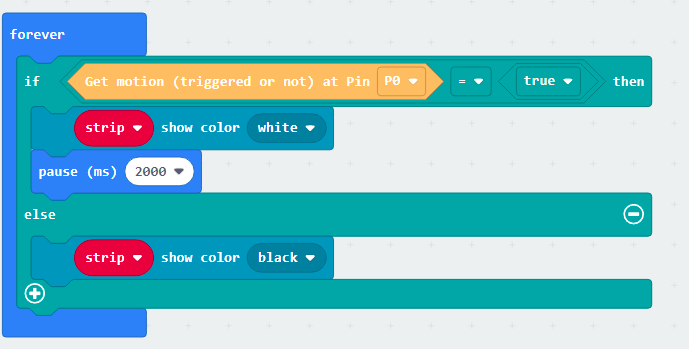
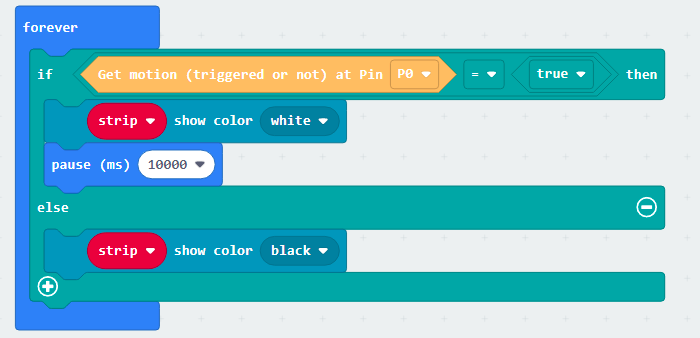
update

Changed region(s): [[0.0, 0.0, 0.9753, 1.0]]

diff --git a/docs/smartHomeIoT/case07.md b/docs/smartHomeIoT/case07.md
@@ -1,34 +1,53 @@
-# Case 07: Relaxing Enjoyable Musical Living Room
+# Case 07: Smart Remote Control Musical Light
 
 Level: ![level](images/level2.png)
-![auto_fit](images/Case7/blank.png)<P>
+![auto_fit](images/Case7/intro.png)<P>
 
 ## Goal
 <HR>
 
-Create a group of micro:bit and remote to play music and change light color.<BR><P>
+Create a remote control to control the living room's musical light<BR><P>
 
 ## Background
 <HR>
 
-<span id="subtitle">What is the Relaxing Enjoyable Musical Living Room?</span><P>
-Relaxing Enjoyable Musical Living Room aims to give a better mood when people stay inside the room. When they press the control button, the corresponding music and light effect will occur to provide suitable ambience.<BR><P>
+<span id="subtitle">What is the Smart Remote Control Musical Light?
+</span><P>
+Nowadays, different electronic furniture can also be controlled remotely. In this case, it illustrates the concept of remote control in Smart Home. In this case, the person can control the atmosphere mode (The changing of music with light) in the living room. 
+<BR><P>
 
-<span id="subtitle">Musical Living Room Principle </span><P>
-Micro:bit includes the radio function, allowing two or more Micro:bit to form a group and communicate in a small area. <BR>
-When one of the Micro:bit receives the message from the other Micro:bit, it will use the buzzer to play a different tone or music, at the same time, the multi-color LED can be changed to have better ambience.
+<span id="subtitle">Smart Remote Control Musical Light Principle 
+</span><P>
+Micro:bit includes the radio function, allowing two or more Micro:bit to form a group and communicate in a small area. <BR>When one of the Micro:bit receives the message from the other Micro:bit, it will use the buzzer to play a different tone or music, at the same time, the multi-color LED can be changed to have better ambience. There are 2 modes, one is enjoyable mode, another is exciting mode.
+
 
 ## Part List
 <HR>
 
-![auto_fit](images/Case7/blank.png)<P>
+<H3>Receiver</H3>
+
+![auto_fit](images/Case7/Case7_parts_1.png)<P>
+
+<H3>Sender</H3>
+
+![auto_fit](images/Case7/Case7_parts_2.png)<P>
 
 ## Assembly step
 <HR>
 
 <span id="subtitle">Step 1</span><P>
-Use M4 screws and nuts to install the Multi-Color LED to the house wall<BR><P>
+Use M4 screws to install the Multi-Color LED to B3 cardboard<BR><P>
 ![auto_fit](images/Case7/Case7_ass1.png)<P>
+
+<H3>Optional</H3>
+
+<span id="subtitle">Step 2</span><P>
+Build a sofa model with ?? cardboards<BR><P>
+![auto_fit](images/Case7/Case7_ass2.png)<P>
+
+<span id="subtitle">Step 3</span><P>
+Place the sofa at the room<BR><P>
+![auto_fit](images/Case7/Case7_ass3.png)<P>
 
 ## Hardware connect
 <HR>

diff --git a/docs/smartHomeIoT/case01.md b/docs/smartHomeIoT/case01.md
@@ -21,7 +21,7 @@ Motion sensor is used to detect the presence of human activity in the room. If t
 ## Part List
 <HR>
 
-![pic_80](images/Case1/Case1_parts.png)<P>
+![auto_fit](images/Case1/Case1_parts.png)<P>
 
 
 ## Assembly step
@@ -69,16 +69,16 @@ Place the bed in the bedroom<BR><P>
 * In `Forever`, add a `if-else` statement
 * Set (`Get motion (triggered or not) at Pin P0` = `true`) as condition
 * Snap `strip show color white` into the `if` segment
-* Snap `pause(ms) 2000` into `if` segment to keep light up for 2 second
+* Snap `pause(ms) 10000` into `if` segment to keep light up for 10 second
 * Snap `strip show color black` into the `else` segment
 * When the condition is correct, that’s say motion is triggered, someone passes by.<BR>The program will run the `if` segment to turn on the light
 * Otherwise, the program will run the `else` segment to turn off the light
 ![pic_90](images/Case1/Case1_p2.png)<P>
 
 <span id="subtitle">Full Solution<BR><P>
-MakeCode: [https://makecode.microbit.org/_hECbKo7rofEM](https://makecode.microbit.org/_hECbKo7rofEM)<BR><P>
+MakeCode: [https://makecode.microbit.org/_MopaifFb42v5](https://makecode.microbit.org/_MopaifFb42v5)<BR><P>
 You could also download the program from the following website:<BR>
-<iframe src="https://makecode.microbit.org/#pub:_hECbKo7rofEM" width="100%" height="500" frameborder="0"></iframe>
+<iframe src="https://makecode.microbit.org/#pub:_MopaifFb42v5" width="100%" height="500" frameborder="0"></iframe>
 
 <P>
 
@@ -86,7 +86,7 @@ You could also download the program from the following website:<BR>
 <HR>
 
 When the people are moving in the room, the motion sensor will trigger and keep the LED turned on. When there is no one moving, the LED will turn off.<BR><P>
-![auto_fit](images/Case1/Case1_result.png)<P>
+![auto_fit](images/Case1/Case1_result.gif)<P>
 
 ## Think
 <HR> 

diff --git a/docs/smartHomeIoT/case04.md b/docs/smartHomeIoT/case04.md
@@ -1,7 +1,7 @@
 # Case 04: Toilet Water Leakage Detection System
 
 Level: ![level](images/level2.png)
-![auto_fit](images/Case4/blank.png)<P>
+![auto_fit](images/Case4/intro.png)<P>
 
 ## Goal
 <HR>
@@ -26,13 +26,12 @@ In daily life, metal usually has a high conductivity, so the electric wires are 
 The system will consist of two crocodile clips each with one side connected to the board, one installed to the place of detection, with two clips physically disconnected. Air is an excellent insulator, so the circuit will become open circuit.  When water is leaked around that area, the water will replace the air between two clips, thus becoming a closed circuit, electricity will flow between the Board's detection Pin and ground Pin. It will trigger the detection to make the water leakage be detected and the system will send an alert.
 <BR><P>
 
-![pic_70](images/Case4/Blank.png)<P>
 
 
 ## Part List
 <HR>
 
-![pic](images/Case4/Blank.png)<P>
+![auto_fit](images/Case4/Case4_parts.png)<P>
 
 ## Assembly step
 <HR>
@@ -79,7 +78,7 @@ You could also download the program from the following website:<BR>
 <HR>
 
 When the water level rises to the crocodile clip’s position, the warning sound is triggered to warn the user.<BR><P>
-![pic](images/Case4/Case4_result.png)<P>
+![pic](images/Case4/Case4_result.gif)<P>
 
 ## Think
 <HR>

diff --git a/docs/smartHomeIoT/case06.md b/docs/smartHomeIoT/case06.md
@@ -1,7 +1,7 @@
 # Case 06: Mechanical Password Switch Door
 
 Level: ![level](images/level2.png)
-![auto_fit](images/Case6/blank.png)<P>
+![auto_fit](images/Case6/intro.png)<P>
 
 ## Goal
 <HR>
@@ -14,13 +14,13 @@ Make a mechanical door that open upon button pressed and correct password input<
 Nowadays, digital locks are common, apart from preventing theft going in, it also provides convenience, for example, no need to bring the physical key, just use the password or Biometric information, the door can auto open or close without pushing or pulling it. In this case, it will demonstrate the use of the basic switches and micro:bit to perform a mechanical password switch door.
 <BR><P>
 
-![pic_70](images/Case6/blank.png)<P>
+
 
 
 ## Part List
 <HR>
 
-![pic](images/Case6/blank.png)<P>
+![pic](images/Case6/Case6_parts.png)<P>
 
 ## Assembly step
 <HR>

diff --git a/docs/smartHomeIoT/case03.md b/docs/smartHomeIoT/case03.md
@@ -17,12 +17,12 @@ Smart motor fan is a fan that can adjust the power, turn on and off automaticall
 
 <span id="subtitle">Environmental motor fan principle</span><P>
 The temperature and humidity sensor installed in the house will scan for surrounding conditions continuously. When the temperature is too low or at average, the fan will change the intensity to off or low. When the temperature is high the fan will adjust to max power.<BR><P>
-![pic_70](images/Case3/blank.png)<P>
+
 
 ## Part List
 <HR>
 
-![pic_80](images/Case3/Case3_parts.png)<P>
+![auto_fit](images/Case3/Case3_parts.png)<P>
 
 ## Assembly step
 <HR>

diff --git a/docs/smartHomeIoT/case02.md b/docs/smartHomeIoT/case02.md
@@ -17,7 +17,6 @@ Security vanguard alarm system is a smart defence system that triggers an alert 
 <span id="subtitle">Vanguard working principle</span><P>
 Motion sensor and distance sensor is implemented over the house and monitor the surrounding environment to check if there are visitors. If there are moving objects nearby, the sensors will reflect data to the system and trigger the buzzer, until the objects move away.<BR><P>
 
-![pic_70](images/Case2/blank.png)<P>
 
 
 ## Part List

diff --git a/docs/smartHomeIoT/case05.md b/docs/smartHomeIoT/case05.md
@@ -1,7 +1,7 @@
 # Case 05: Smart Fridge Alert
 
 Level: ![level](images/level3.png)
-![auto_fit](images/Case5/Blank.png)<P>
+![auto_fit](images/Case5/intro.png)<P>
 
 ## Goal
 <HR>
